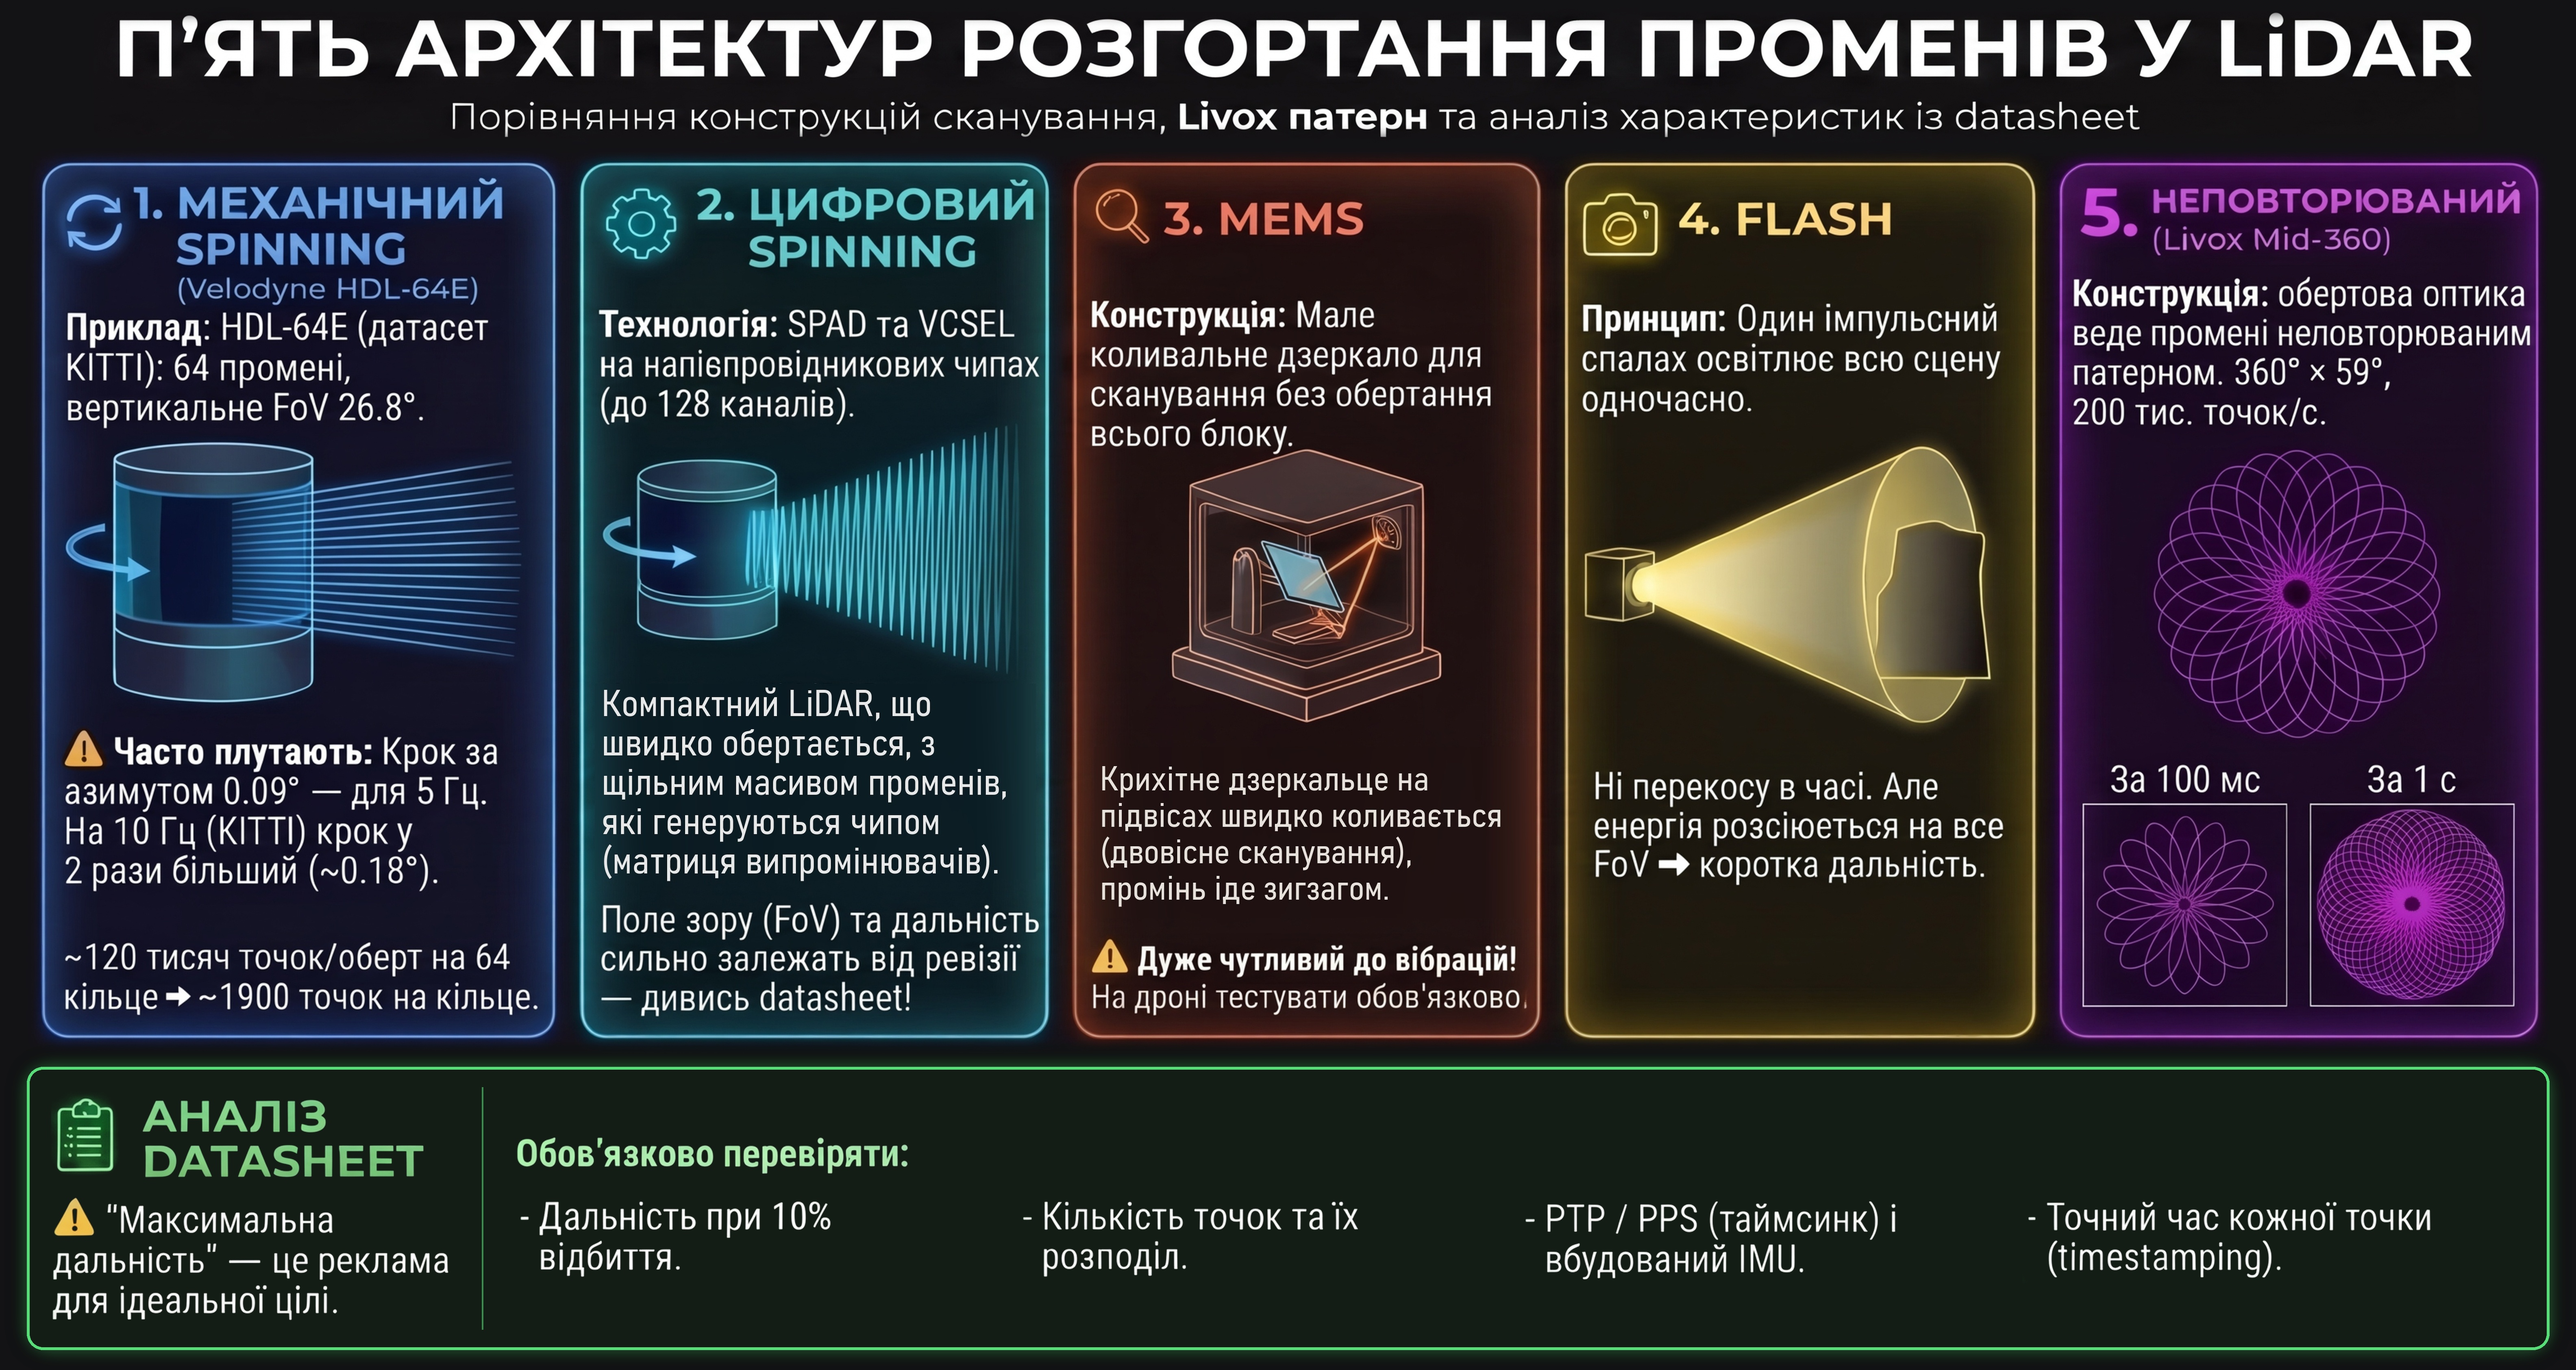
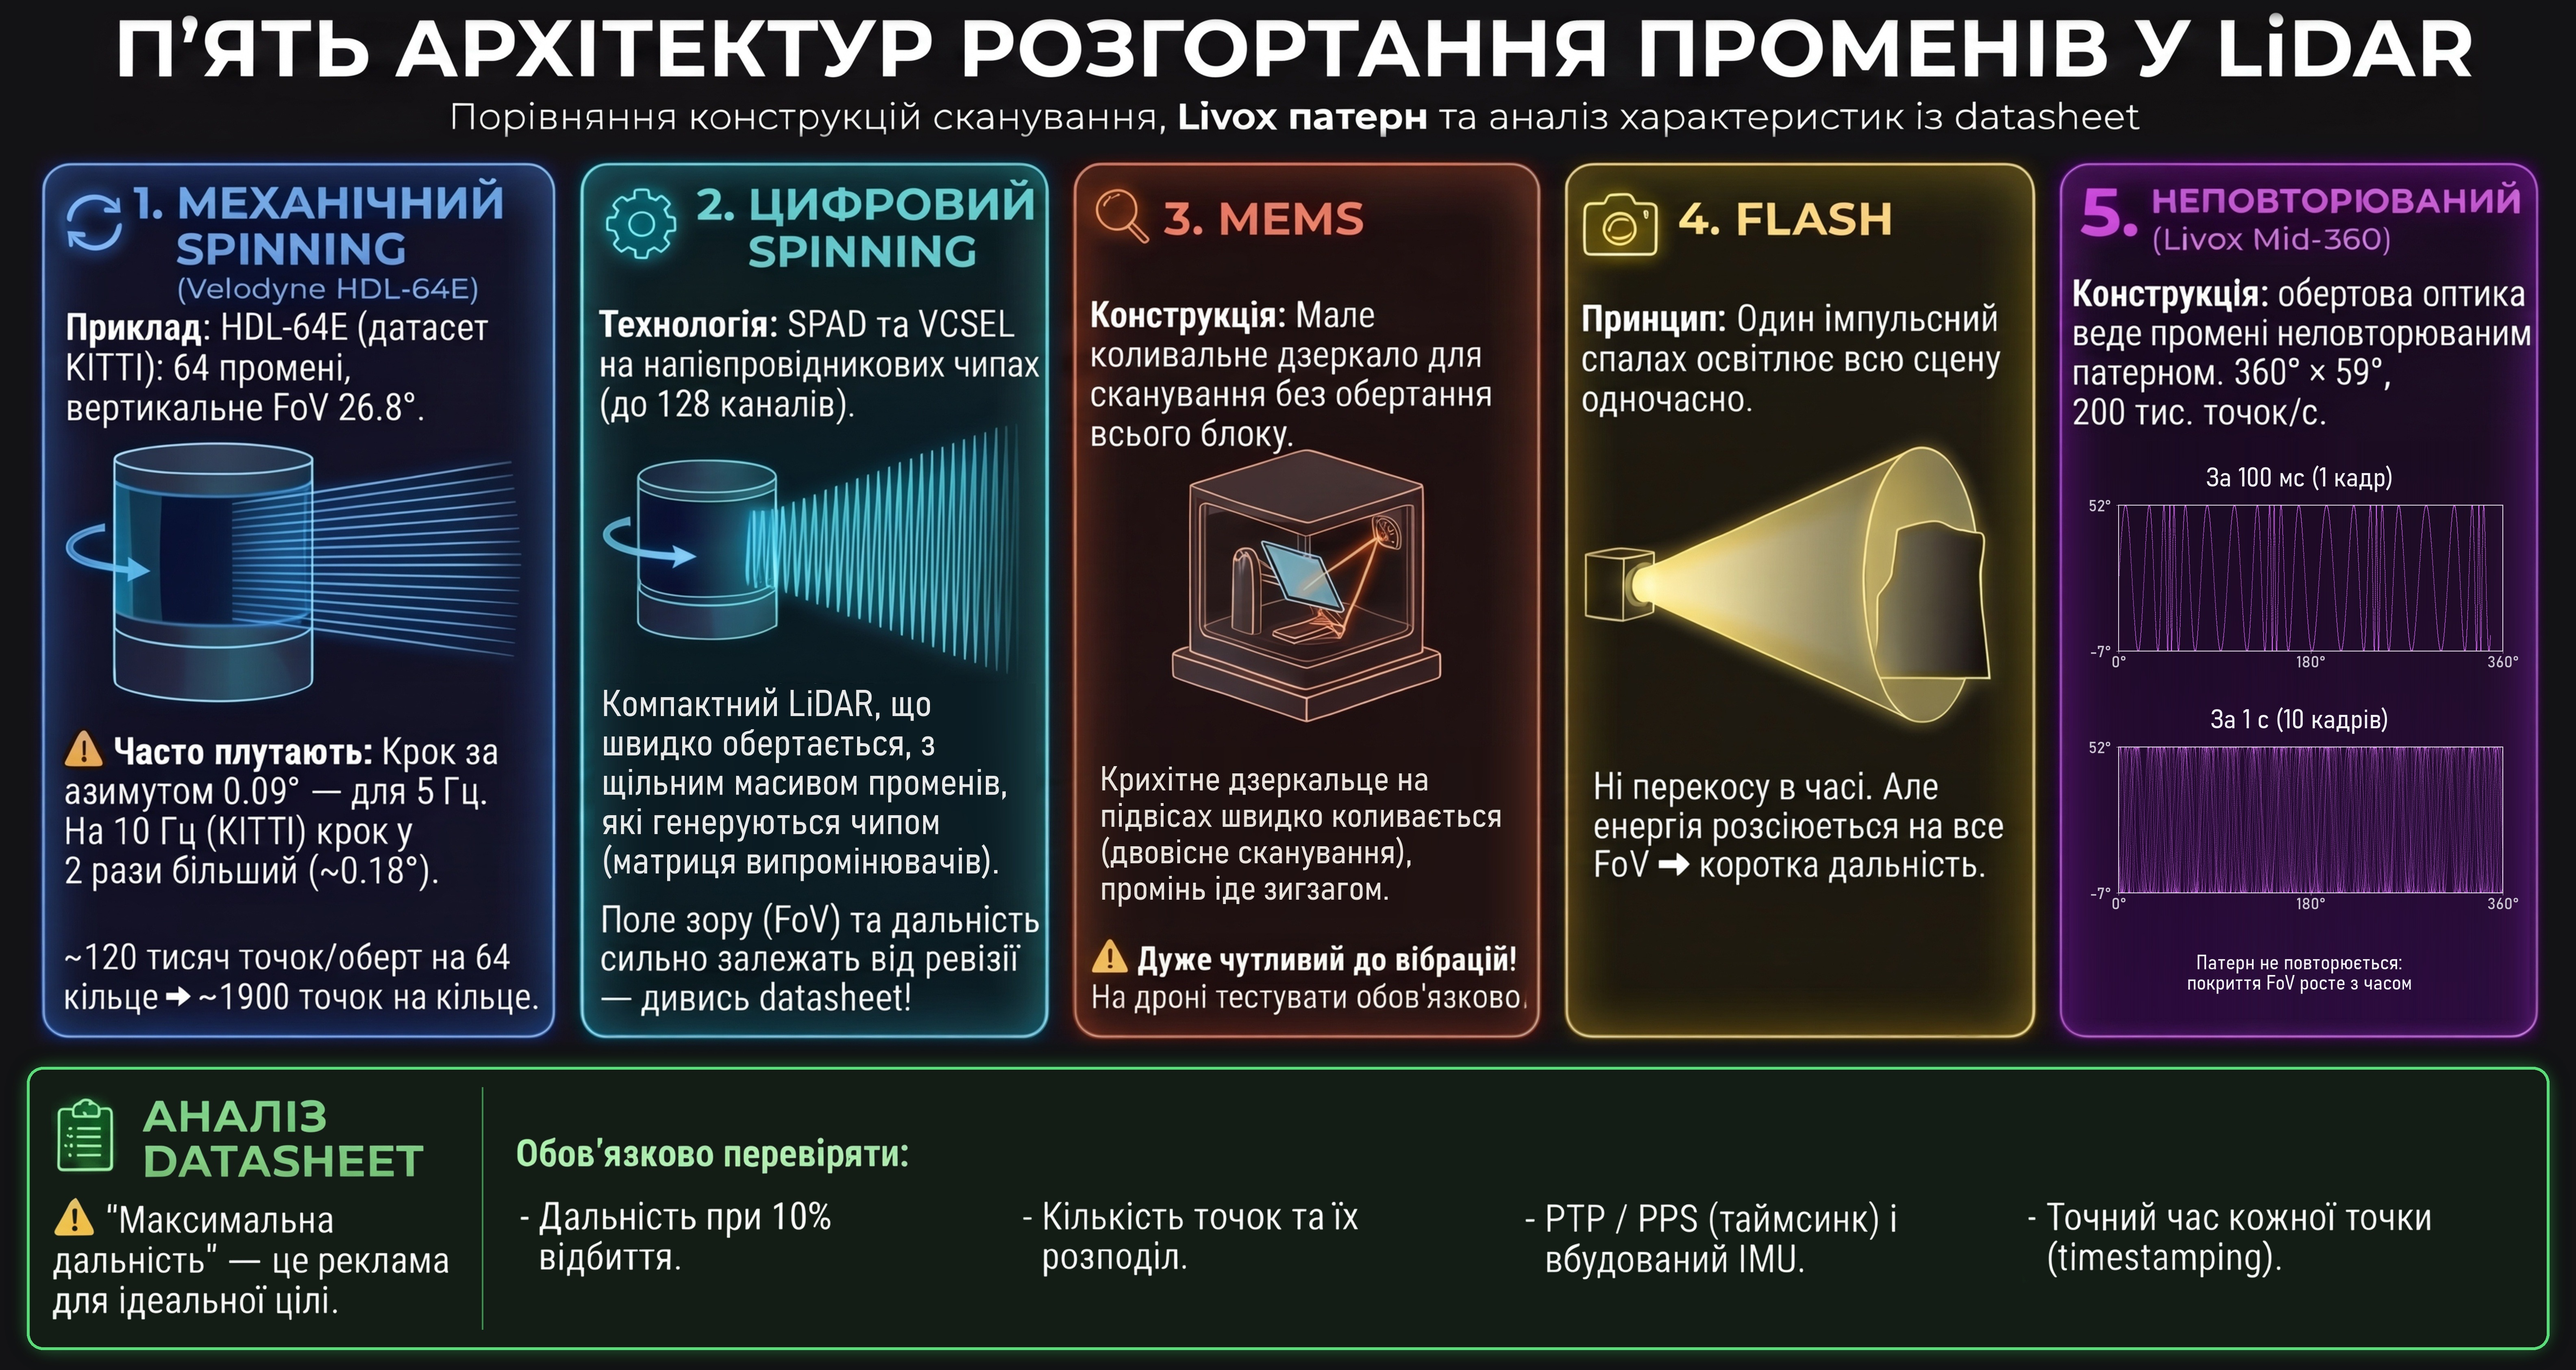
Slide 10: Mid-360 coverage strips instead of Mid-40 rosette

Changed region(s): [[0.8125, 0.3115, 1.0, 0.7476]]

diff --git a/scripts/p10_livox_card.py b/scripts/p10_livox_card.py
@@ -1,0 +1,86 @@
+"""Slide 10 infographic, card 5: replace the rosette (Mid-40/Avia pattern) with a Mid-360-style coverage view.
+
+Usage: p10_livox_card.py <in> <out>
+Mid-360 is a 360 x 59 deg (-7..52) panoramic sensor, so its coverage is shown as two azimuth x elevation
+strips: one 10 Hz frame (100 ms) and 1 s of accumulation. The pattern itself is illustrative
+(incommensurate sweeps, as in p10_scan_patterns.py but with a smaller azimuth wobble), at the datasheet rate of 200k points/s.
+"""
+import io
+import sys
+
+import matplotlib
+matplotlib.use("Agg")
+import matplotlib.pyplot as plt
+import numpy as np
+from PIL import Image, ImageDraw, ImageFont
+
+plt.rcParams["font.family"] = "Bahnschrift"
+
+src, out = sys.argv[1], sys.argv[2]
+X0, Y0, X1, Y1 = 5090, 1085, 6222, 2505  # card 5 area below the "Конструкція" text
+FONT = (r"C:\Windows\Fonts\bahnschrift.ttf", "SemiLight SemiCondensed")
+WHITE = (240, 240, 245)
+MAGENTA = "#e070ff"
+RATE = 200.0  # points per ms (200k pts/s)
+
+
+def livox(duration_ms):
+    t = np.arange(0, duration_ms, 1 / RATE)
+    s = t / 1000.0
+    az = (s * 360 * 10 + 12 * np.sin(2 * np.pi * 37.3 * s)) % 360
+    el = 22.5 + 29.5 * np.sin(2 * np.pi * 241.8034 * s + 2.1 * np.sin(2 * np.pi * 7.07 * s))
+    return az, el
+
+
+def strip(duration_ms, w, h):
+    fig = plt.figure(figsize=(w / 100, h / 100), dpi=100)
+    fig.patch.set_alpha(0)
+    ax = fig.add_axes([0.10, 0.19, 0.85, 0.78])
+    ax.set_facecolor("#0d0612")
+    az, el = livox(duration_ms)
+    ax.scatter(az, el, s=0.25 if duration_ms > 200 else 0.9, c=MAGENTA, alpha=0.4 if duration_ms > 200 else 1,
+               linewidths=0, rasterized=True)
+    ax.set_xlim(0, 360)
+    ax.set_ylim(-7, 52)
+    ax.set_xticks([0, 180, 360])
+    ax.set_xticklabels(["0°", "180°", "360°"])
+    ax.set_yticks([-7, 52])
+    ax.set_yticklabels(["-7°", "52°"])
+    ax.tick_params(colors="#c9c2d0", labelsize=28, length=4, pad=3)
+    ax.tick_params(axis="y", pad=10)
+    for sp in ax.spines.values():
+        sp.set_color("#e6e0ea")
+        sp.set_linewidth(1.5)
+    buf = io.BytesIO()
+    fig.savefig(buf, format="png", dpi=100, transparent=True)
+    plt.close(fig)
+    return Image.open(buf).convert("RGBA")
+
+
+im = Image.open(src).convert("RGB")
+a = np.asarray(im).astype(float)
+# card background: blend per-column medians of the strips just above and below the area
+top = np.median(a[Y0 - 10:Y0 - 2, X0:X1], axis=0)
+bot = np.median(a[Y1 + 2:Y1 + 10, X0:X1], axis=0)
+w = np.linspace(0, 1, Y1 - Y0)[:, None, None]
+a[Y0:Y1, X0:X1] = (1 - w) * top[None] + w * bot[None]
+im = Image.fromarray(a.clip(0, 255).astype(np.uint8)).convert("RGBA")
+
+W = X1 - X0
+font = ImageFont.truetype(FONT[0], 66)
+font.set_variation_by_name(FONT[1])
+small = ImageFont.truetype(FONT[0], 50)
+small.set_variation_by_name(FONT[1])
+d = ImageDraw.Draw(im)
+
+y = Y0 + 60
+for dur, label in [(100, "За 100 мс (1 кадр)"), (1000, "За 1 с (10 кадрів)")]:
+    d.text((X0 + W // 2, y), label, font=font, fill=WHITE, anchor="mt")
+    img = strip(dur, W - 20, 460)
+    im.alpha_composite(img, (X0 + 10, y + 85))
+    y += 85 + 460 + 50
+
+d.text((X0 + W // 2, y + 10), "Патерн не повторюється:\nпокриття FoV росте з часом",
+       font=small, fill=WHITE, anchor="ma", align="center", spacing=10)
+im.convert("RGB").save(out, quality=93)
+print("saved", out)
